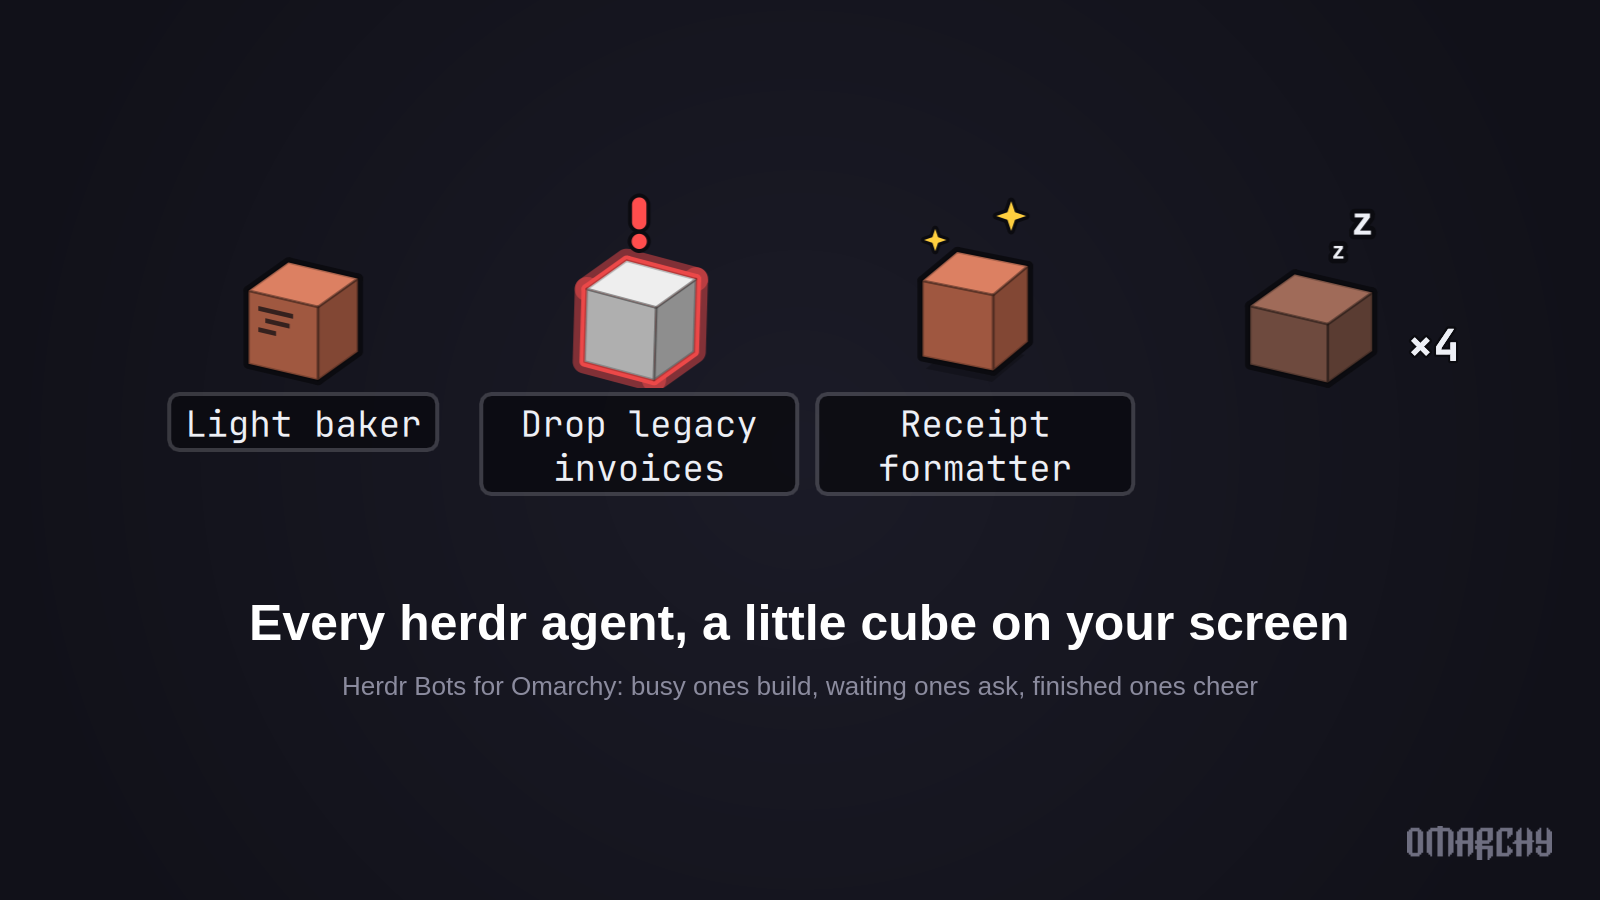
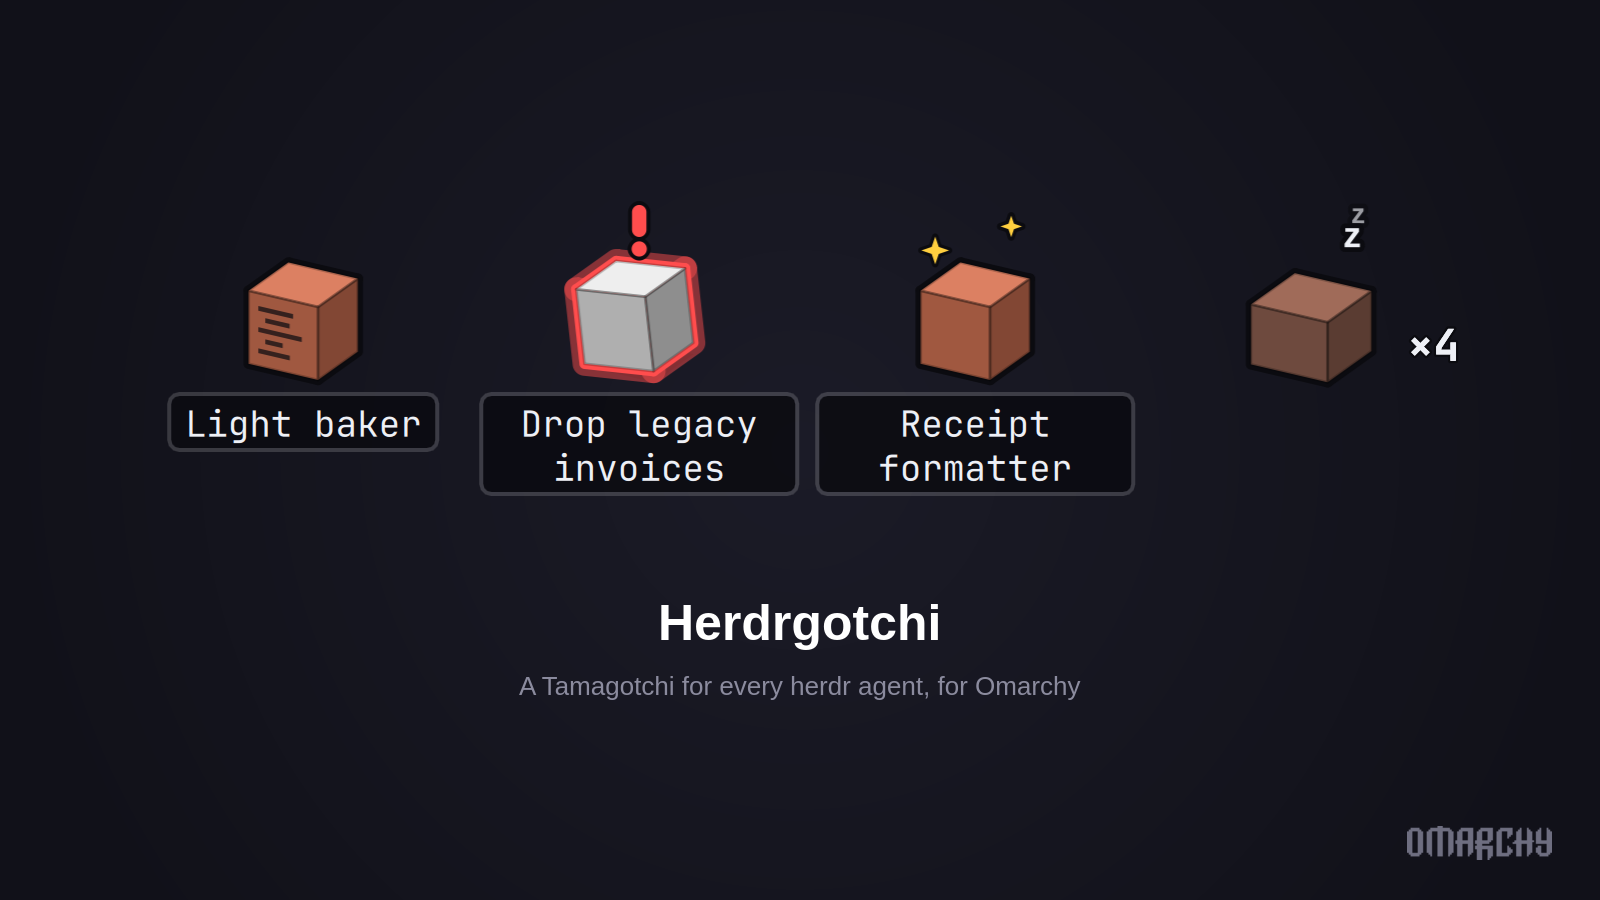
Call it Herdrgotchi
A Tamagotchi for every herdr agent, so the name says so. The plugin id, the repository, the data script and the cache directory move to herdrgotchi with it, the README calls each one a gotchi, and the social image carries the new name.

diff --git a/Service.qml b/Service.qml
@@ -7,7 +7,7 @@ import qs.Commons
 import qs.Commons as Commons
 import "Bots.js" as Bots
 
-// Herdr Bots: every agent herdr is running, as a little pet standing on the
+// Herdrgotchi: every agent herdr is running, as a little pet standing on the
 // bottom edge of the screen with its name on a plate under it, drawn as a
 // plain cube. They behave like Tamagotchis. A busy agent is at work: it
 // builds a stack or fills its sides with text. One that is waiting on you
@@ -30,7 +30,7 @@ import "Bots.js" as Bots
 // they were standing in front of.
 //
 // shell.json settings (top-level plugins[] entry):
-//   { "id": "jankeesvw.herdr-bots",
+//   { "id": "jankeesvw.herdrgotchi",
 //     "monitor": "DP-3",      // output name; default is the one focused at start
 //     "side": "right",        // "right" or "left" corner
 //     "marginX": 24, "marginY": 8,
@@ -43,7 +43,7 @@ Item {
   property var manifest: null
   property string omarchyPath: ""
 
-  readonly property string pluginId: "jankeesvw.herdr-bots"
+  readonly property string pluginId: "jankeesvw.herdrgotchi"
 
   // ------------------------------------------------------------- settings
 
@@ -189,7 +189,7 @@ Item {
   // ----------------------------------------------------------------- data
 
   readonly property string script: {
-    var raw = String(Qt.resolvedUrl("bin/herdr-bots"))
+    var raw = String(Qt.resolvedUrl("bin/herdrgotchi"))
     return raw.indexOf("file://") === 0 ? decodeURIComponent(raw.slice(7)) : ""
   }
 
@@ -443,7 +443,7 @@ Item {
   }
 
   IpcHandler {
-    target: "jankeesvw.herdr-bots"
+    target: "jankeesvw.herdrgotchi"
     function attend(): string {
       var p = root.neediest()
       if (!p) return "nobody needs you"
@@ -761,7 +761,7 @@ Item {
     anchors { top: true; bottom: true; left: true; right: true }
     color: "transparent"
     exclusionMode: ExclusionMode.Ignore
-    WlrLayershell.namespace: "jankeesvw-herdr-bots"
+    WlrLayershell.namespace: "jankeesvw-herdrgotchi"
     WlrLayershell.layer: WlrLayer.Top
     // Keys only while one of them is pointed at or the pile is open, so the
     // pets never take the keyboard from the window you are typing in. Held

diff --git a/Bots.js b/Bots.js
@@ -1,6 +1,6 @@
 .pragma library
 
-// Herdr Bots, drawn as vectors: a plain shaded cube that says everything
+// Herdrgotchi's pets, drawn as vectors: a plain shaded cube that says everything
 // with how it moves. Smooth shapes rather than pixels, so a pet the size of a
 // bar icon still reads.
 //

diff --git a/README.md b/README.md
@@ -1,12 +1,12 @@
-# Herdr Bots
+# Herdrgotchi
 
-Every [herdr](https://herdr.dev) agent as a little cube on your screen, for [Omarchy](https://omarchy.org). Busy ones build or type, waiting ones flash red until you answer, finished ones show off until you look, and the idle ones sleep together in a pile in the corner.
+A Tamagotchi for every [herdr](https://herdr.dev) agent, for [Omarchy](https://omarchy.org): each one is a little cube on your screen. Busy ones build or type, waiting ones flash red until you answer, finished ones show off until you look, and the idle ones sleep together in a pile in the corner.
 
 ![Three cubes along the bottom of the screen: one finishes with confetti, one starts waiting and a click sends it back to work, one is picked up and put somewhere else, the finished one is clicked and goes to sleep in the corner, and after H they all drop off the screen and hop back a minute later](assets/demo.gif)
 
-## What they do
+## What a gotchi does
 
-Each pet follows one agent, with the agent's name on a plate under it. They behave like Tamagotchis, and each one keeps its own rhythm.
+Each gotchi follows one agent, with the agent's name on a plate under it. Like a Tamagotchi it lets you know how it is doing, and each one keeps its own rhythm.
 
 - **Working**: the cube builds a stack of blocks next to it, or fills its sides with text. Now and then it takes a breather and looks up at you.
 - **Waiting on you** (herdr's `blocked`: an approval or a question on screen): it rocks and flashes red under an exclamation mark, and it gets more insistent the longer you leave it.
@@ -15,15 +15,15 @@ Each pet follows one agent, with the agent's name on a plate under it. They beha
 
 The changes are the moments worth seeing, so every change of state has an animation of its own: confetti when work finishes, a startled jump when an agent starts waiting on you, a stretch when one wakes up, and a heart and a yawn when you have looked after it and it goes back to sleep.
 
-## Using them
+## Looking after them
 
-- **Hover** a pet for its name, its workspace and how long it has been in this state.
-- **Click** a pet to land on its pane. The herdr window showing that session comes to the front, or a new one opens in `foot` when there is none. Clicking is also what tells a finished pet you have seen it.
-- **Drag** a pet to pick it up. It hangs from a climbing hold under the pointer until you put it down, and then it stays where you left it, asleep or awake.
+- **Hover** a gotchi for its name, its workspace and how long it has been in this state.
+- **Click** a gotchi to land on its pane. The herdr window showing that session comes to the front, or a new one opens in `foot` when there is none. Clicking is also what tells a finished gotchi you have seen it.
+- **Drag** a gotchi to pick it up. It hangs from a climbing hold under the pointer until you put it down, and then it stays where you left it, asleep or awake.
 - **Click the pile** for a list of everyone asleep, the most recent first. Click a name to go to that agent, or drag one out of the pile or out of the list to put it somewhere on its own. Put it back on the line in the corner and it rejoins the pile.
 - **Press H** while pointing at any of them, or with the list open, and they drop off the bottom of the screen one after another, out of the way of whatever they were standing in front of. A minute later they hop back. Escape closes the list.
 
-The pets only take the keyboard while you point at one or have the list open, so they never take keys from the window you are typing in.
+Herdrgotchi only takes the keyboard while you point at a gotchi or have the list open, so it never takes keys from the window you are typing in.
 
 ## Saved SSH machines
 
@@ -31,11 +31,11 @@ Agents on the saved SSH machines in `herdr machine list` are part of the herd to
 
 ## Settings
 
-The pets have no bar widget. They are set in their own entry in the top-level `plugins` list in `~/.config/omarchy/shell.json`:
+Herdrgotchi has no bar widget. It is set in its own entry in the top-level `plugins` list in `~/.config/omarchy/shell.json`:
 
 ```jsonc
 {
-  "id": "jankeesvw.herdr-bots",
+  "id": "jankeesvw.herdrgotchi",
   "monitor": "DP-3",      // output name; default is the one focused when the shell starts
   "side": "right",        // "right" or "left" corner
   "marginX": 24,
@@ -45,19 +45,19 @@ The pets have no bar widget. They are set in their own entry in the top-level `p
 }
 ```
 
-They also answer over IPC, which is handy for a keybinding:
+It also answers over IPC, which is handy for a keybinding:
 
 ```bash
-omarchy-shell jankeesvw.herdr-bots attend   # go to whoever has waited longest, then whoever finished longest ago
-omarchy-shell jankeesvw.herdr-bots toggle   # hide or show them (also: show, hide)
-omarchy-shell jankeesvw.herdr-bots unfold   # open or close the list of sleepers
+omarchy-shell jankeesvw.herdrgotchi attend   # go to whoever has waited longest, then whoever finished longest ago
+omarchy-shell jankeesvw.herdrgotchi toggle   # hide or show every gotchi (also: show, hide)
+omarchy-shell jankeesvw.herdrgotchi unfold   # open or close the list of sleepers
 ```
 
 ## Installing it
 
 ```bash
-omarchy plugin add https://github.com/jankeesvw/omarchy-herdr-bots
-omarchy plugin enable jankeesvw.herdr-bots
+omarchy plugin add https://github.com/jankeesvw/omarchy-herdrgotchi
+omarchy plugin enable jankeesvw.herdrgotchi
 ```
 
 Needs `herdr`, `jq` and `hyprctl` on `$PATH`. `hyprctl` is what pairs a session with the window showing it, and a new window is opened in `foot`, falling back to `xdg-terminal-exec`. Agents on saved SSH machines need herdr 0.9.1 or newer, both here and on each machine.
@@ -67,19 +67,19 @@ Needs `herdr`, `jq` and `hyprctl` on `$PATH`. `hyprctl` is what pairs a session 
 The data script has a demo mode with invented agents, so a screenshot never carries real project names:
 
 ```bash
-~/.config/omarchy/plugins/jankeesvw.herdr-bots/bin/herdr-bots demo on
+~/.config/omarchy/plugins/jankeesvw.herdrgotchi/bin/herdrgotchi demo on
 # ... take the screenshot ...
-~/.config/omarchy/plugins/jankeesvw.herdr-bots/bin/herdr-bots demo off
+~/.config/omarchy/plugins/jankeesvw.herdrgotchi/bin/herdrgotchi demo off
 ```
 
-Clicking a pet does nothing while it is on.
+Clicking a gotchi does nothing while it is on.
 
 ## Removing it
 
 ```bash
-omarchy plugin disable jankeesvw.herdr-bots
-omarchy plugin remove jankeesvw.herdr-bots
-rm -rf ~/.cache/omarchy-herdr-bots
+omarchy plugin disable jankeesvw.herdrgotchi
+omarchy plugin remove jankeesvw.herdrgotchi
+rm -rf ~/.cache/omarchy-herdrgotchi
 ```
 
 That cache directory holds nothing about your work: the demo flag, and an empty marker for each saved machine that did not answer, so it is left alone for a minute. Every name on screen is read from herdr when it is drawn.
